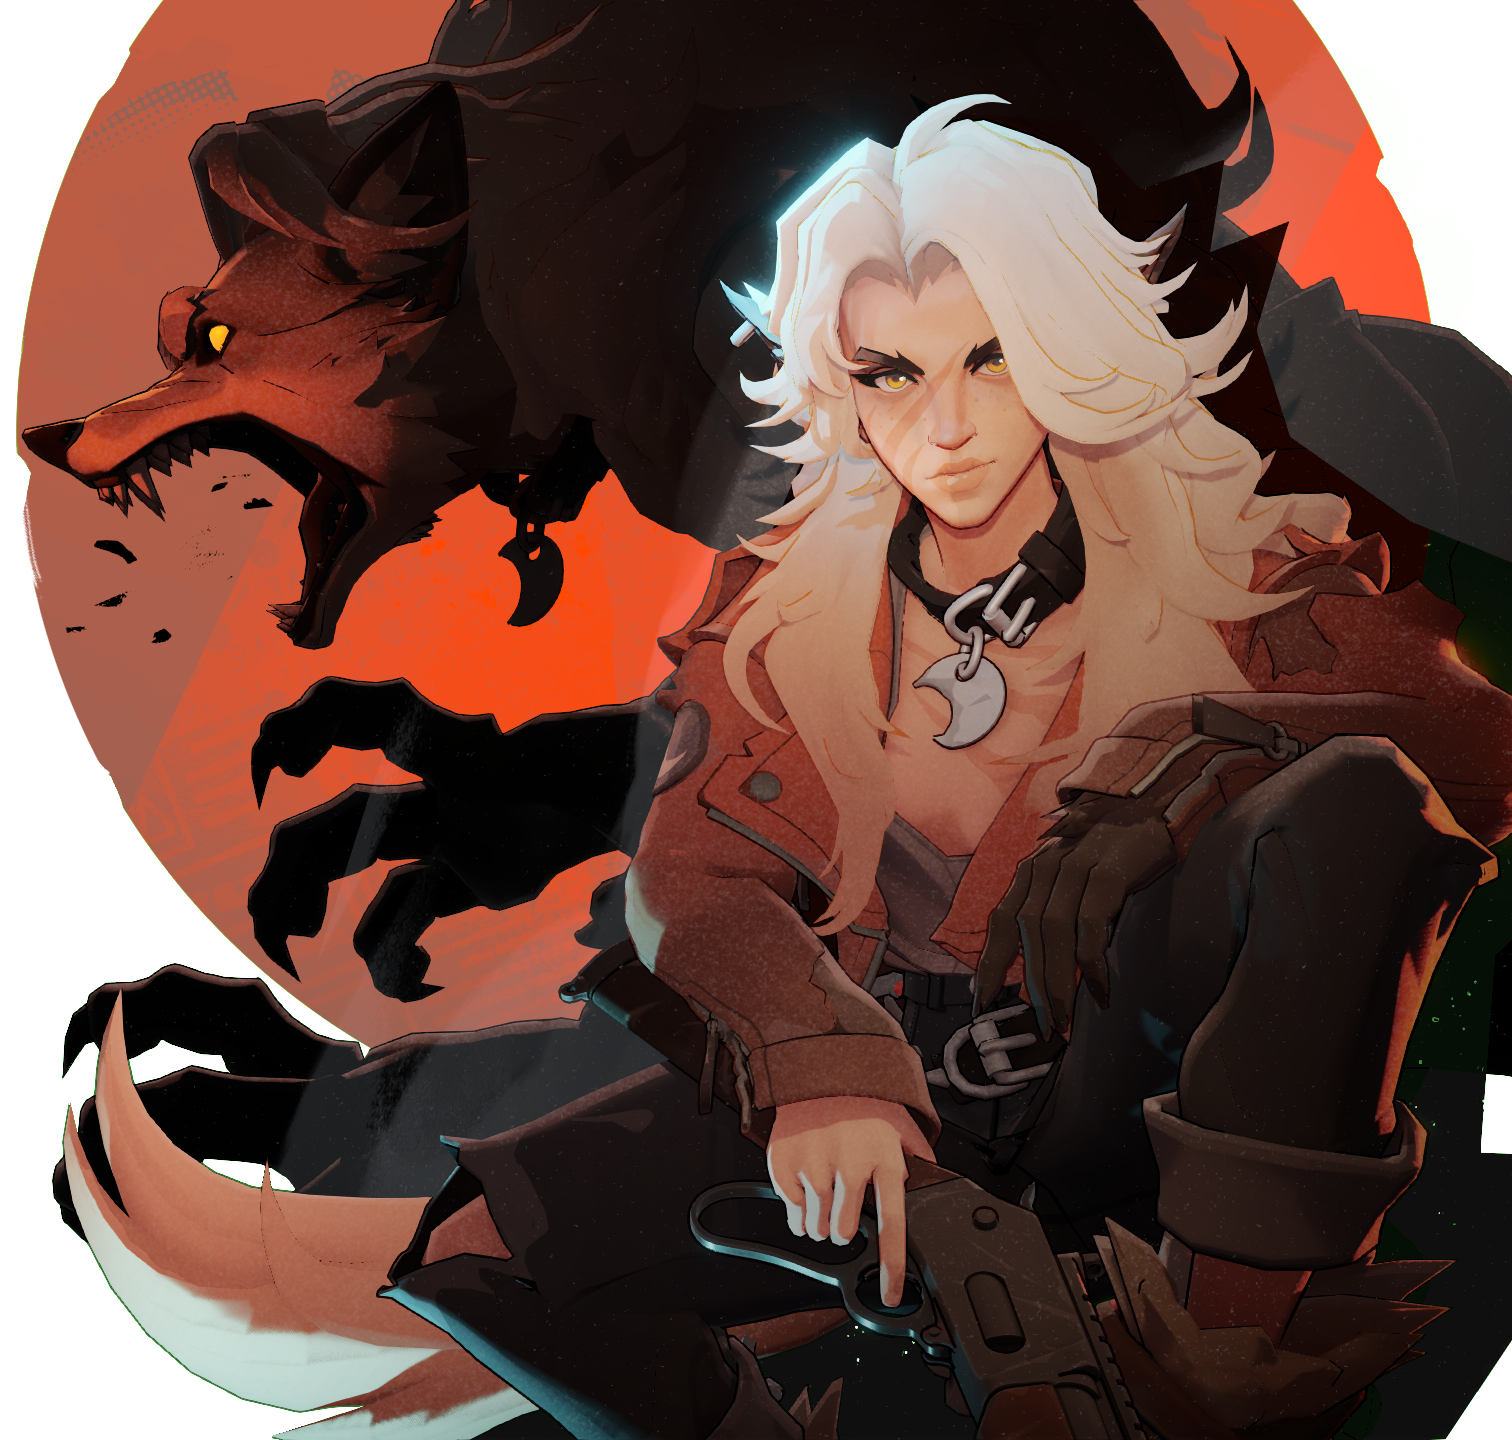
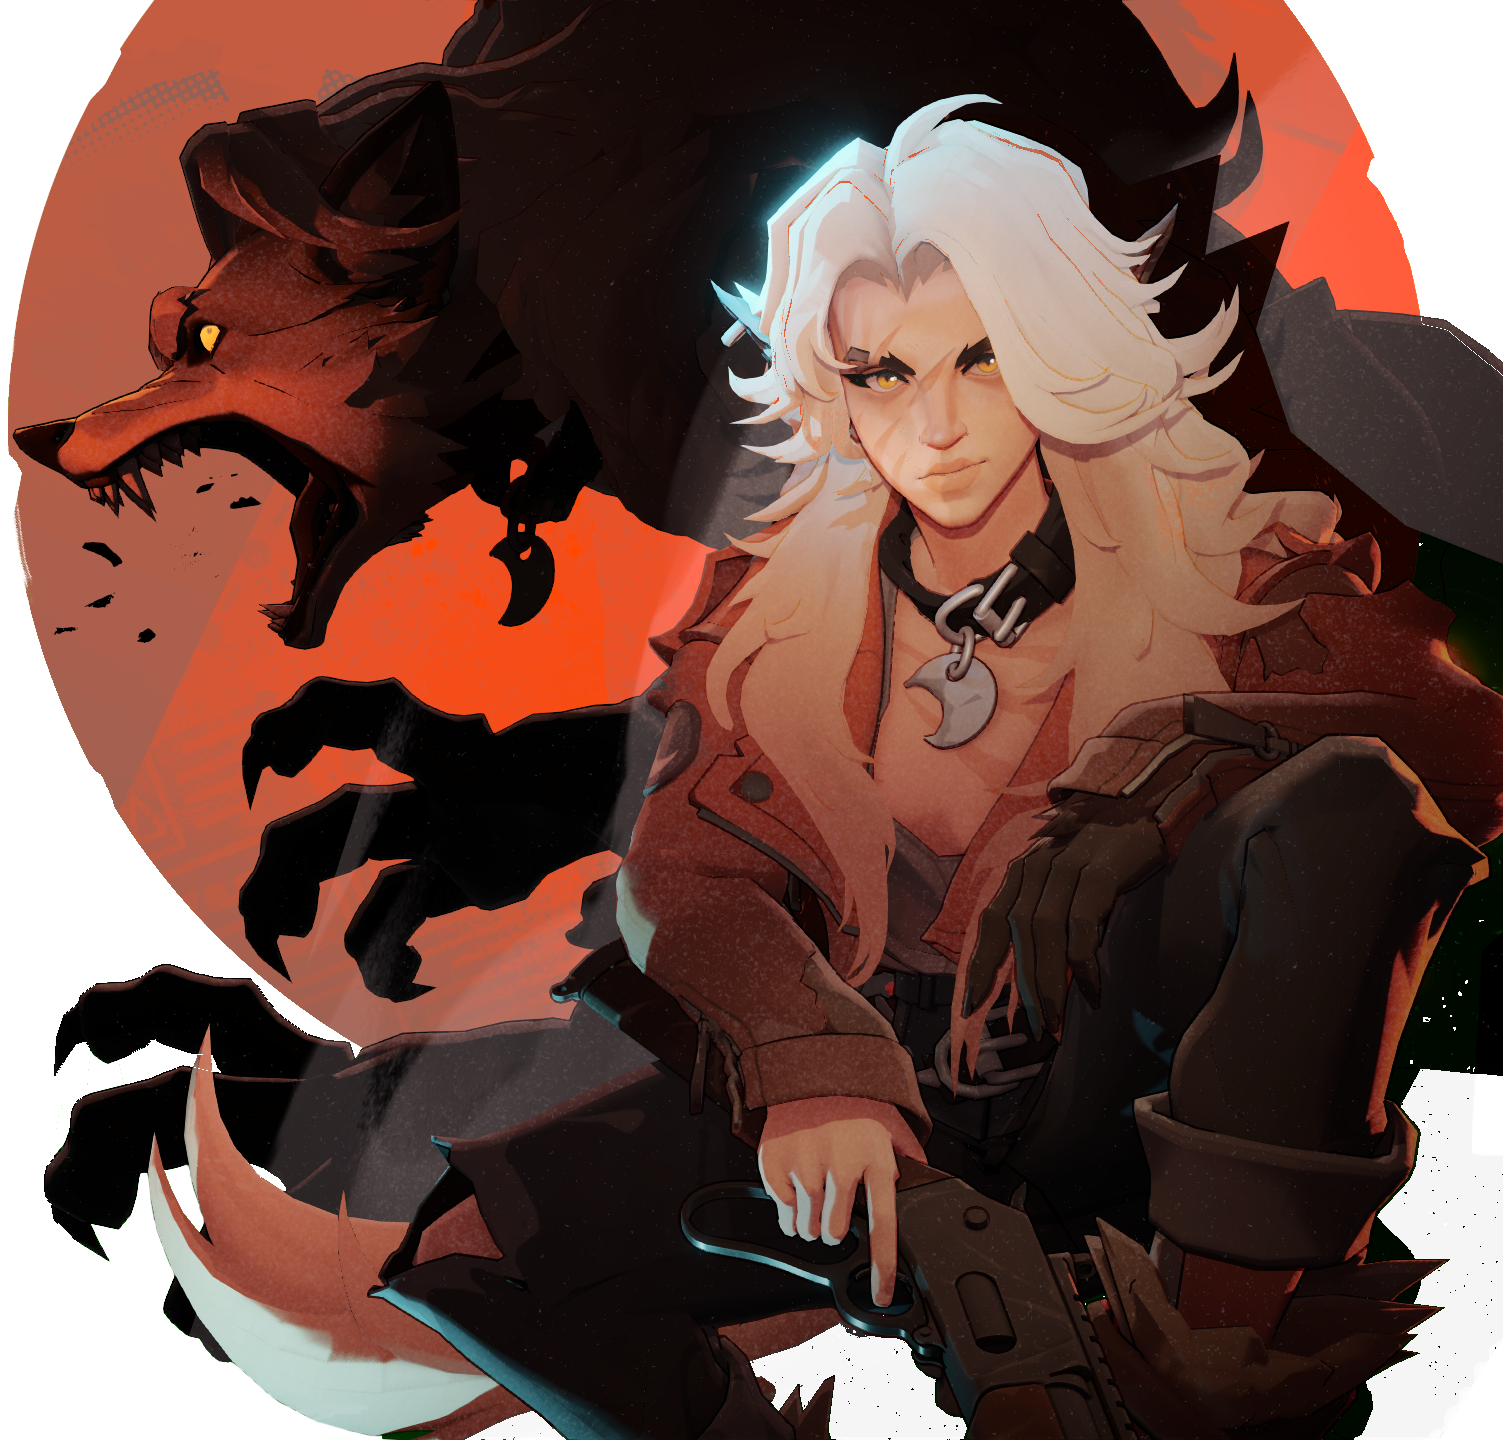
fix(locker): use selected illustrated artwork across the full roster

diff --git a/docs/locker-artwork.md b/docs/locker-artwork.md
@@ -1,0 +1,22 @@
+# Locker artwork
+
+The default Locker portraits use Valve's illustrated hero artwork, with the
+decorative background and transparent edges intact. They are bundled with the
+app and are not fetched at runtime. User-selected mod images still take priority.
+
+`scripts/locker-artwork.json` records the selected source, dimensions and SHA-256
+for every unique hero in the shared roster. The Deadlock Wiki hosts the source
+PNGs. Doorman and The Doorman share one illustration.
+
+The wiki's latest `Render` upload is not always the illustration we want. Yamato
+uses the archived illustrated version rather than the newer model render. The
+manifest pins image contents so refreshing assets cannot silently change styles.
+
+Run `node scripts/fetch-locker-art.mjs --check` to verify the entire roster offline.
+Run `node scripts/fetch-locker-art.mjs` to restore any missing or changed files
+from the selected sources. Updating a source requires visually reviewing its
+Locker card, full backdrop and sidebar crop, then recording its new hash.
+
+The October 2026 audit covers all 44 unique heroes. It includes the exact Solomon,
+Deadman Danny, Nurse Harrow, Rat King, Baba and Violet illustrations supplied in
+the feature request.
